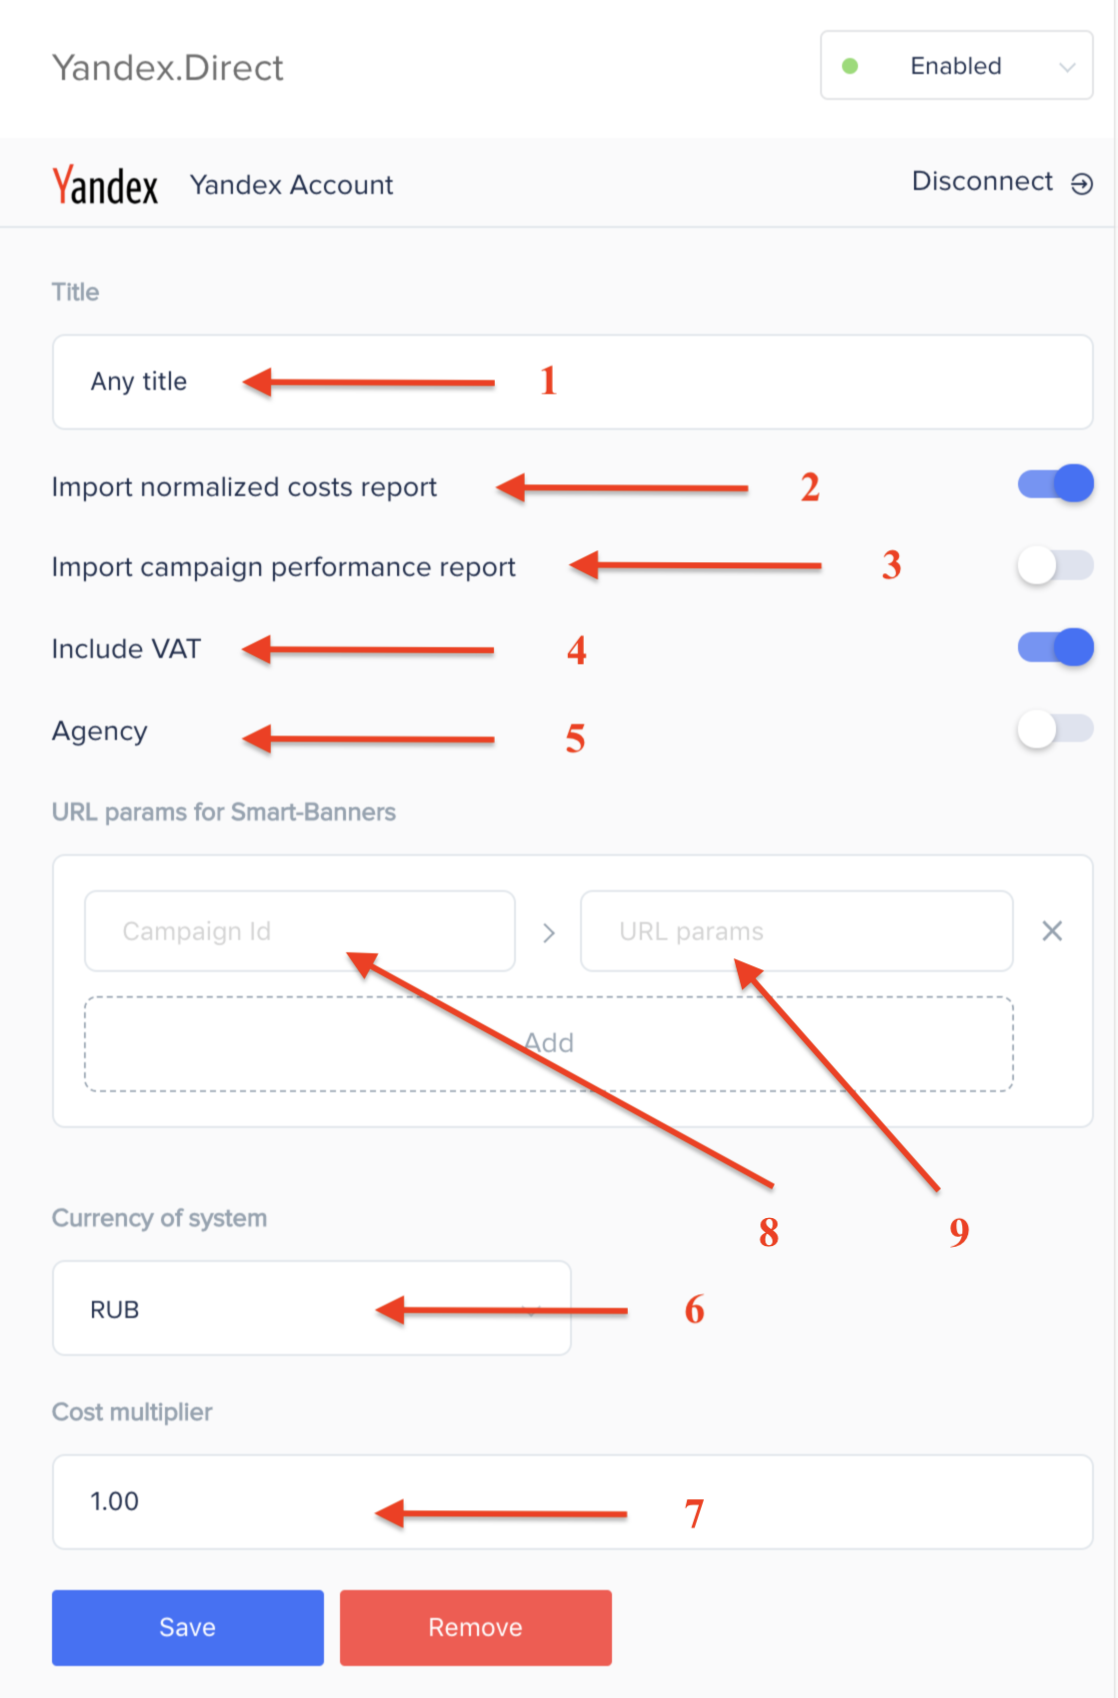
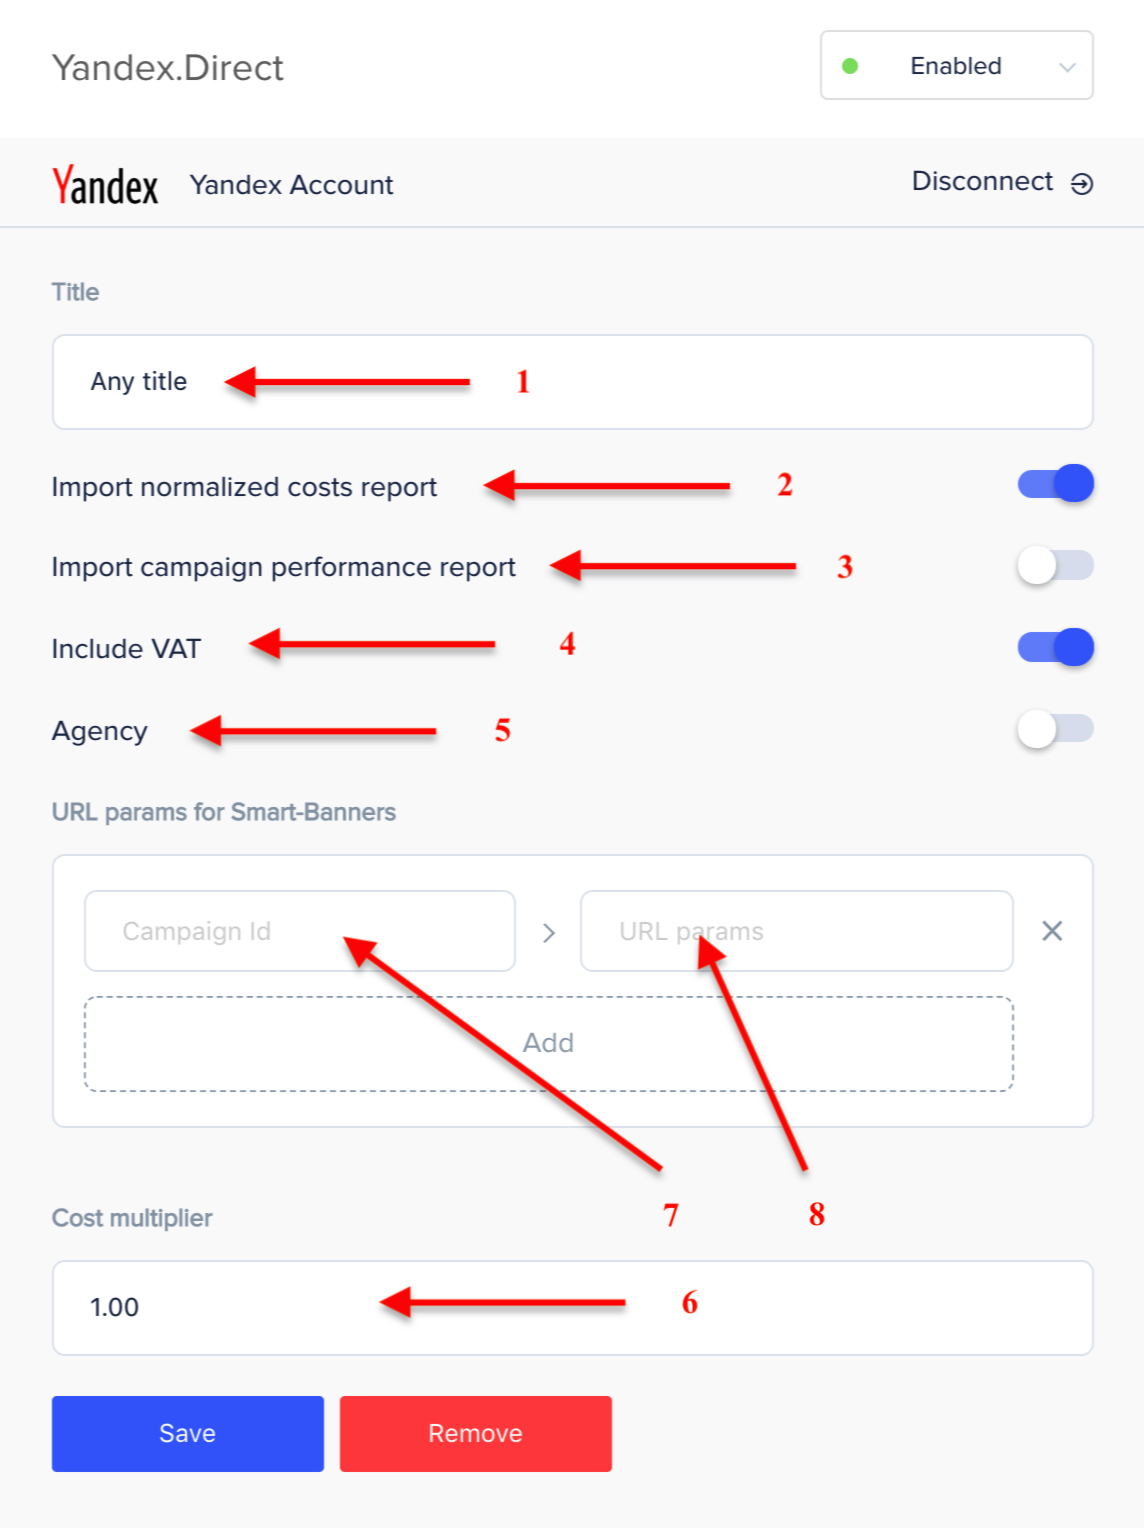
Updated Yandex Direct page

diff --git a/_docs/datasources/yandex direct.md b/_docs/datasources/yandex direct.md
@@ -31,15 +31,13 @@ After authorization you need to set the data source parameters.
 
 (5) The data source belongs to the agency. See Customization for advertising agencies.
 
-(6) Account currency. Select the currency in which the data is displayed in the advertising account.
-
-(7) Value multiplier. Multiplied by the cost in the final report.
+(6) Value multiplier. Multiplied by the cost in the final report.
 
 If you use smart banners for advertising, you must fill in the parameters (7) and (8).
 
-(8) Smart banner advertising campaign identifier.
+(7) Smart banner advertising campaign identifier.
 
-(9) Utm parameters of the url for the smart banner are copied from the settings of the Yandex.Direct advertising account: **Editing active smart banners** → **URL parameters**.
+(8) Utm parameters of the url for the smart banner are copied from the settings of the Yandex.Direct advertising account: **Editing active smart banners** → **URL parameters**.
 
 Example: `utm_source=yandex&utm_medium=cpc&utm_campaign={campaign_id}&utm_term={ad_id}&utm_content={gbid}`
 
@@ -117,7 +115,6 @@ utmCampaign | STRING | NULLABLE
 utmContent | STRING | NULLABLE
 utmMedium | STRING | REQUIRED
 utmSource | STRING | REQUIRED
-currency | STRING | NULLABLE
 
 **yandexDirectCampaignPerformance**
 
